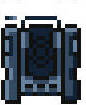
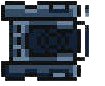
Movement of tank

diff --git a/Gametank.java b/Gametank.java
@@ -18,8 +18,8 @@ public class Gametank extends Actor
     int rightSpeed = 2;
     public Gametank(){
         
-        setRotation(90);
-        tankbody.scale(50, 65);
+        setRotation(90); 
+        tankbody.scale(65, 50);
         setImage(tankbody);
     }
     SimpleTimer animationTimer = new SimpleTimer();
@@ -32,13 +32,11 @@ public class Gametank extends Actor
             rightSpeed = 2;
         }
         if(Greenfoot.isKeyDown("w")){
-            move(rightSpeed);
             
+            move(rightSpeed);
         }
         if(Greenfoot.isKeyDown("s")){
             
-            
-            getRotation();
             move(leftSpeed);
         }
         if(Greenfoot.isKeyDown("a")){

diff --git a/Enemytank.java b/Enemytank.java
@@ -1,0 +1,19 @@
+import greenfoot.*;  // (World, Actor, GreenfootImage, Greenfoot and MouseInfo)
+
+/**
+ * Write a description of class Enemytank here.
+ * 
+ * @author (your name) 
+ * @version (a version number or a date)
+ */
+public class Enemytank extends Actor
+{
+    /**
+     * Act - do whatever the Enemytank wants to do. This method is called whenever
+     * the 'Act' or 'Run' button gets pressed in the environment.
+     */
+    public void act()
+    {
+        // Add your action code here.
+    }
+}
